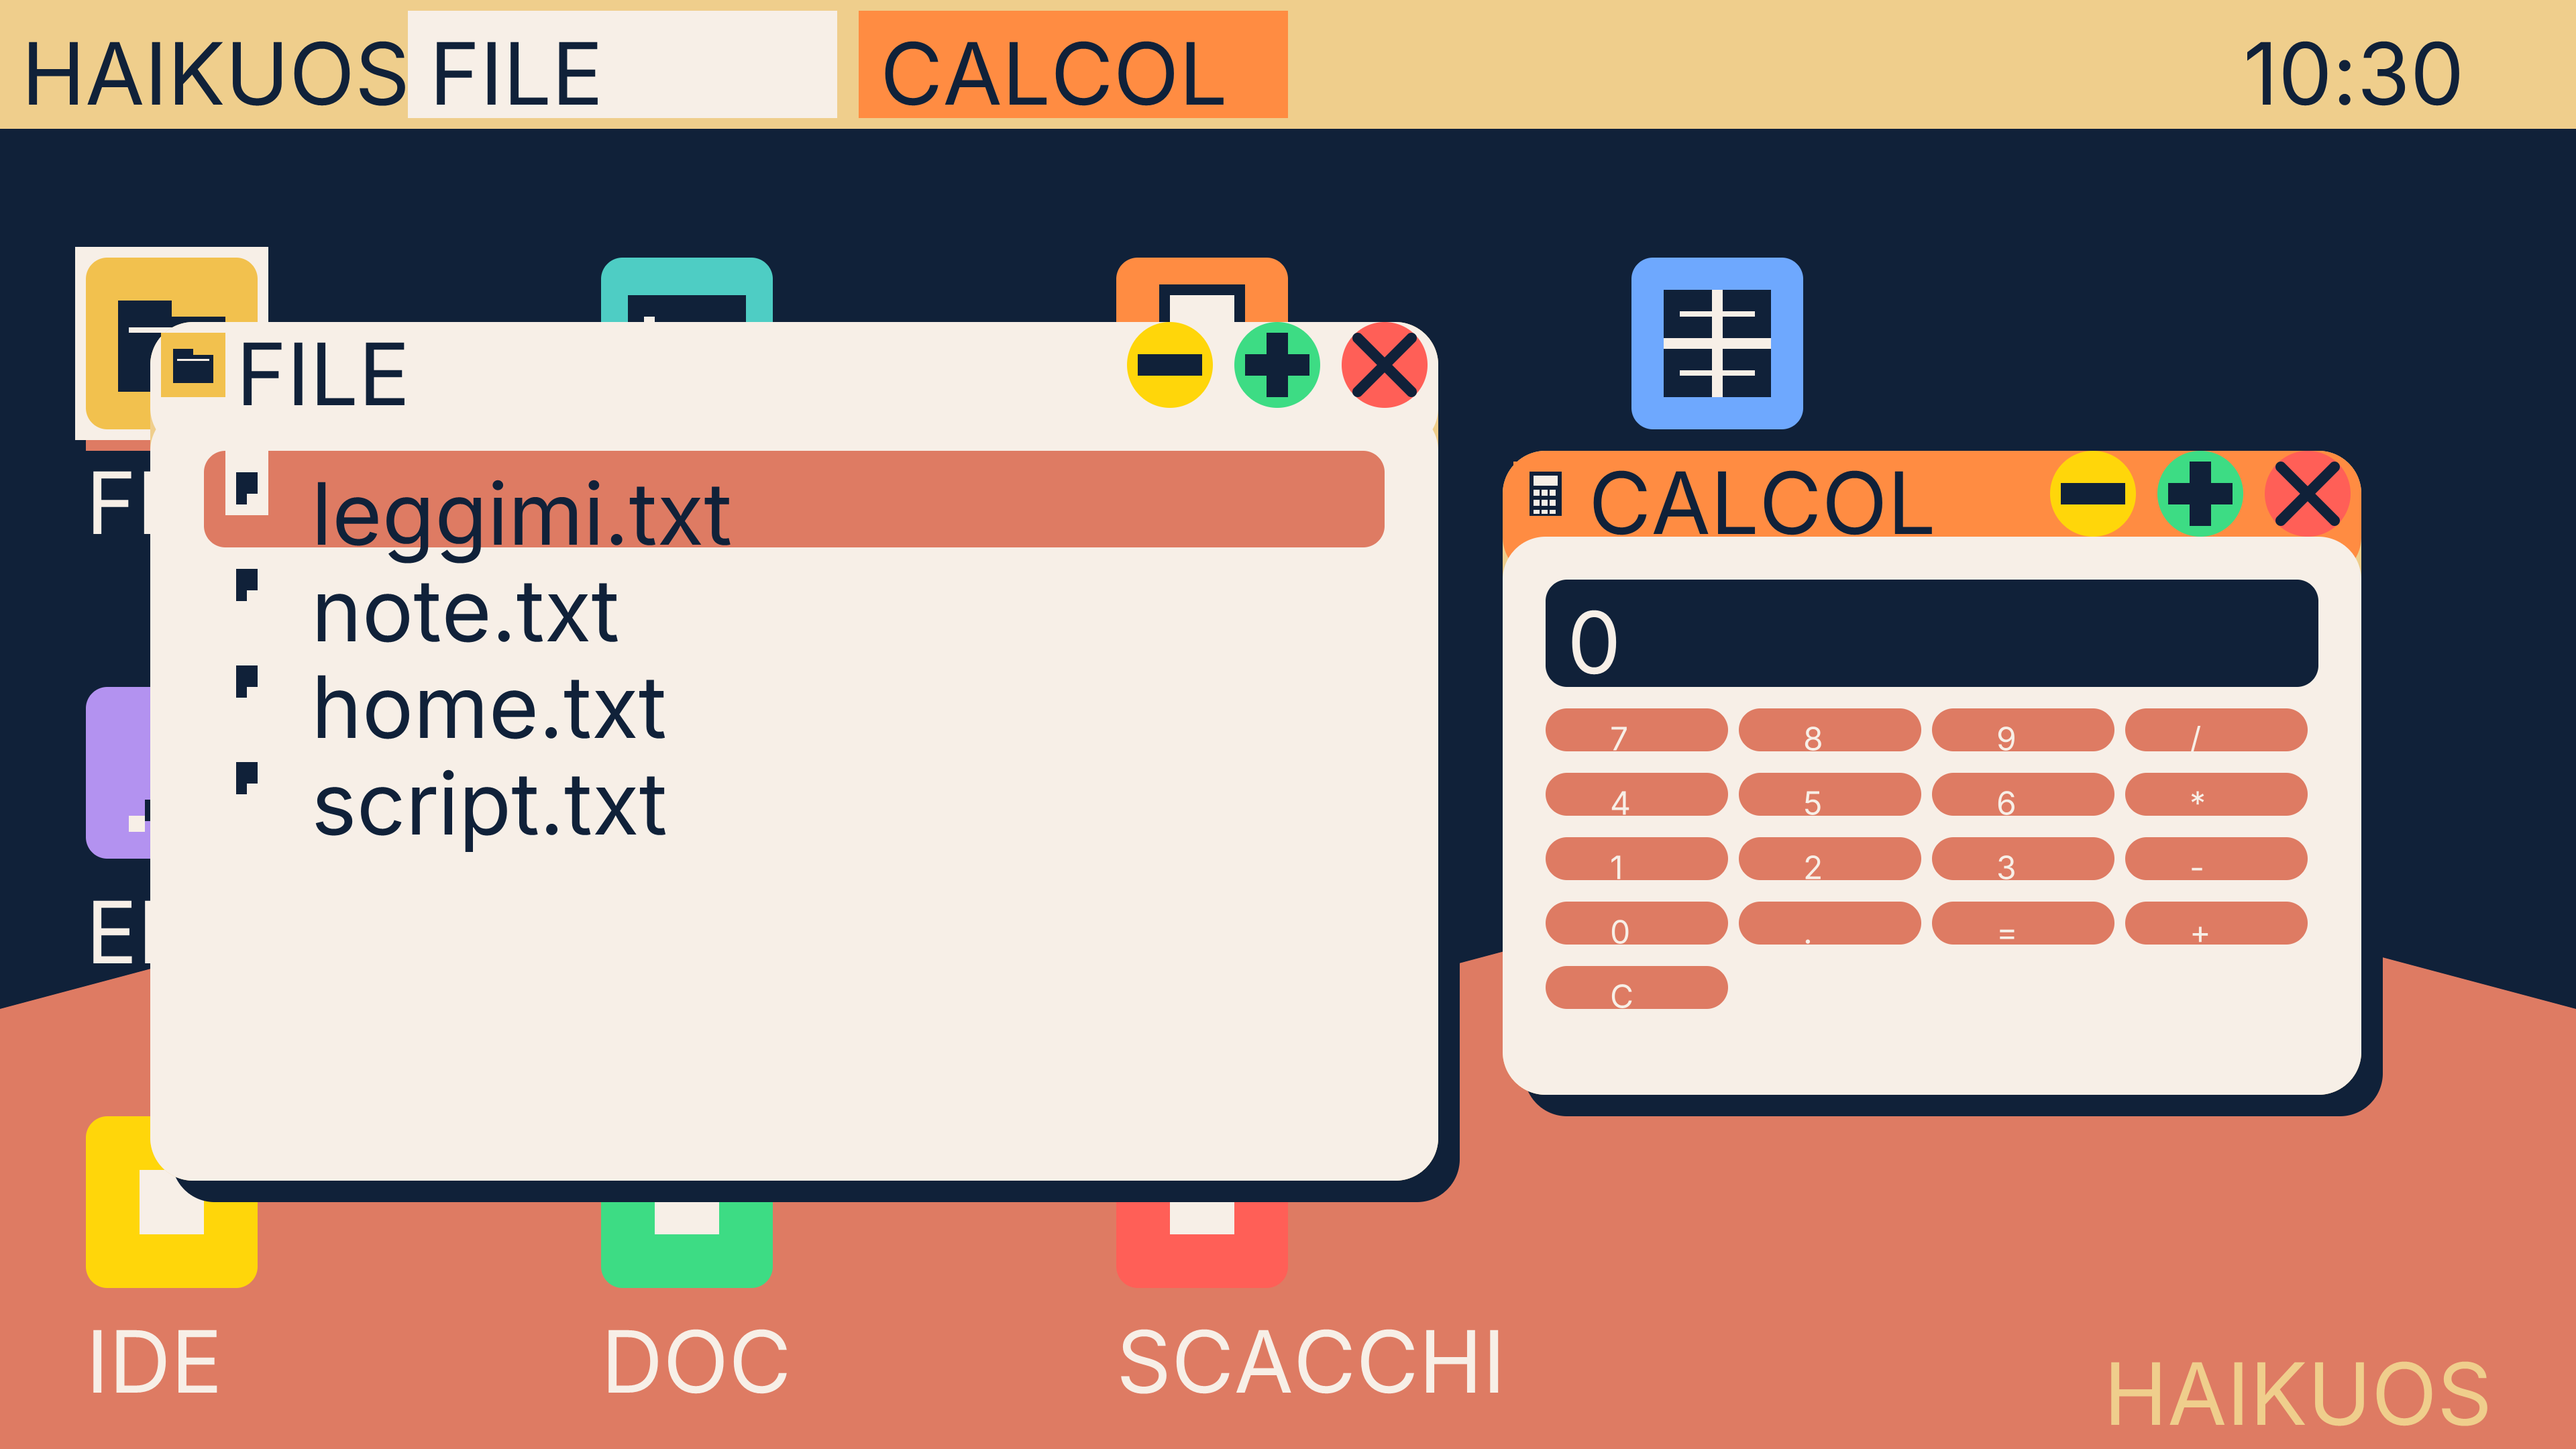
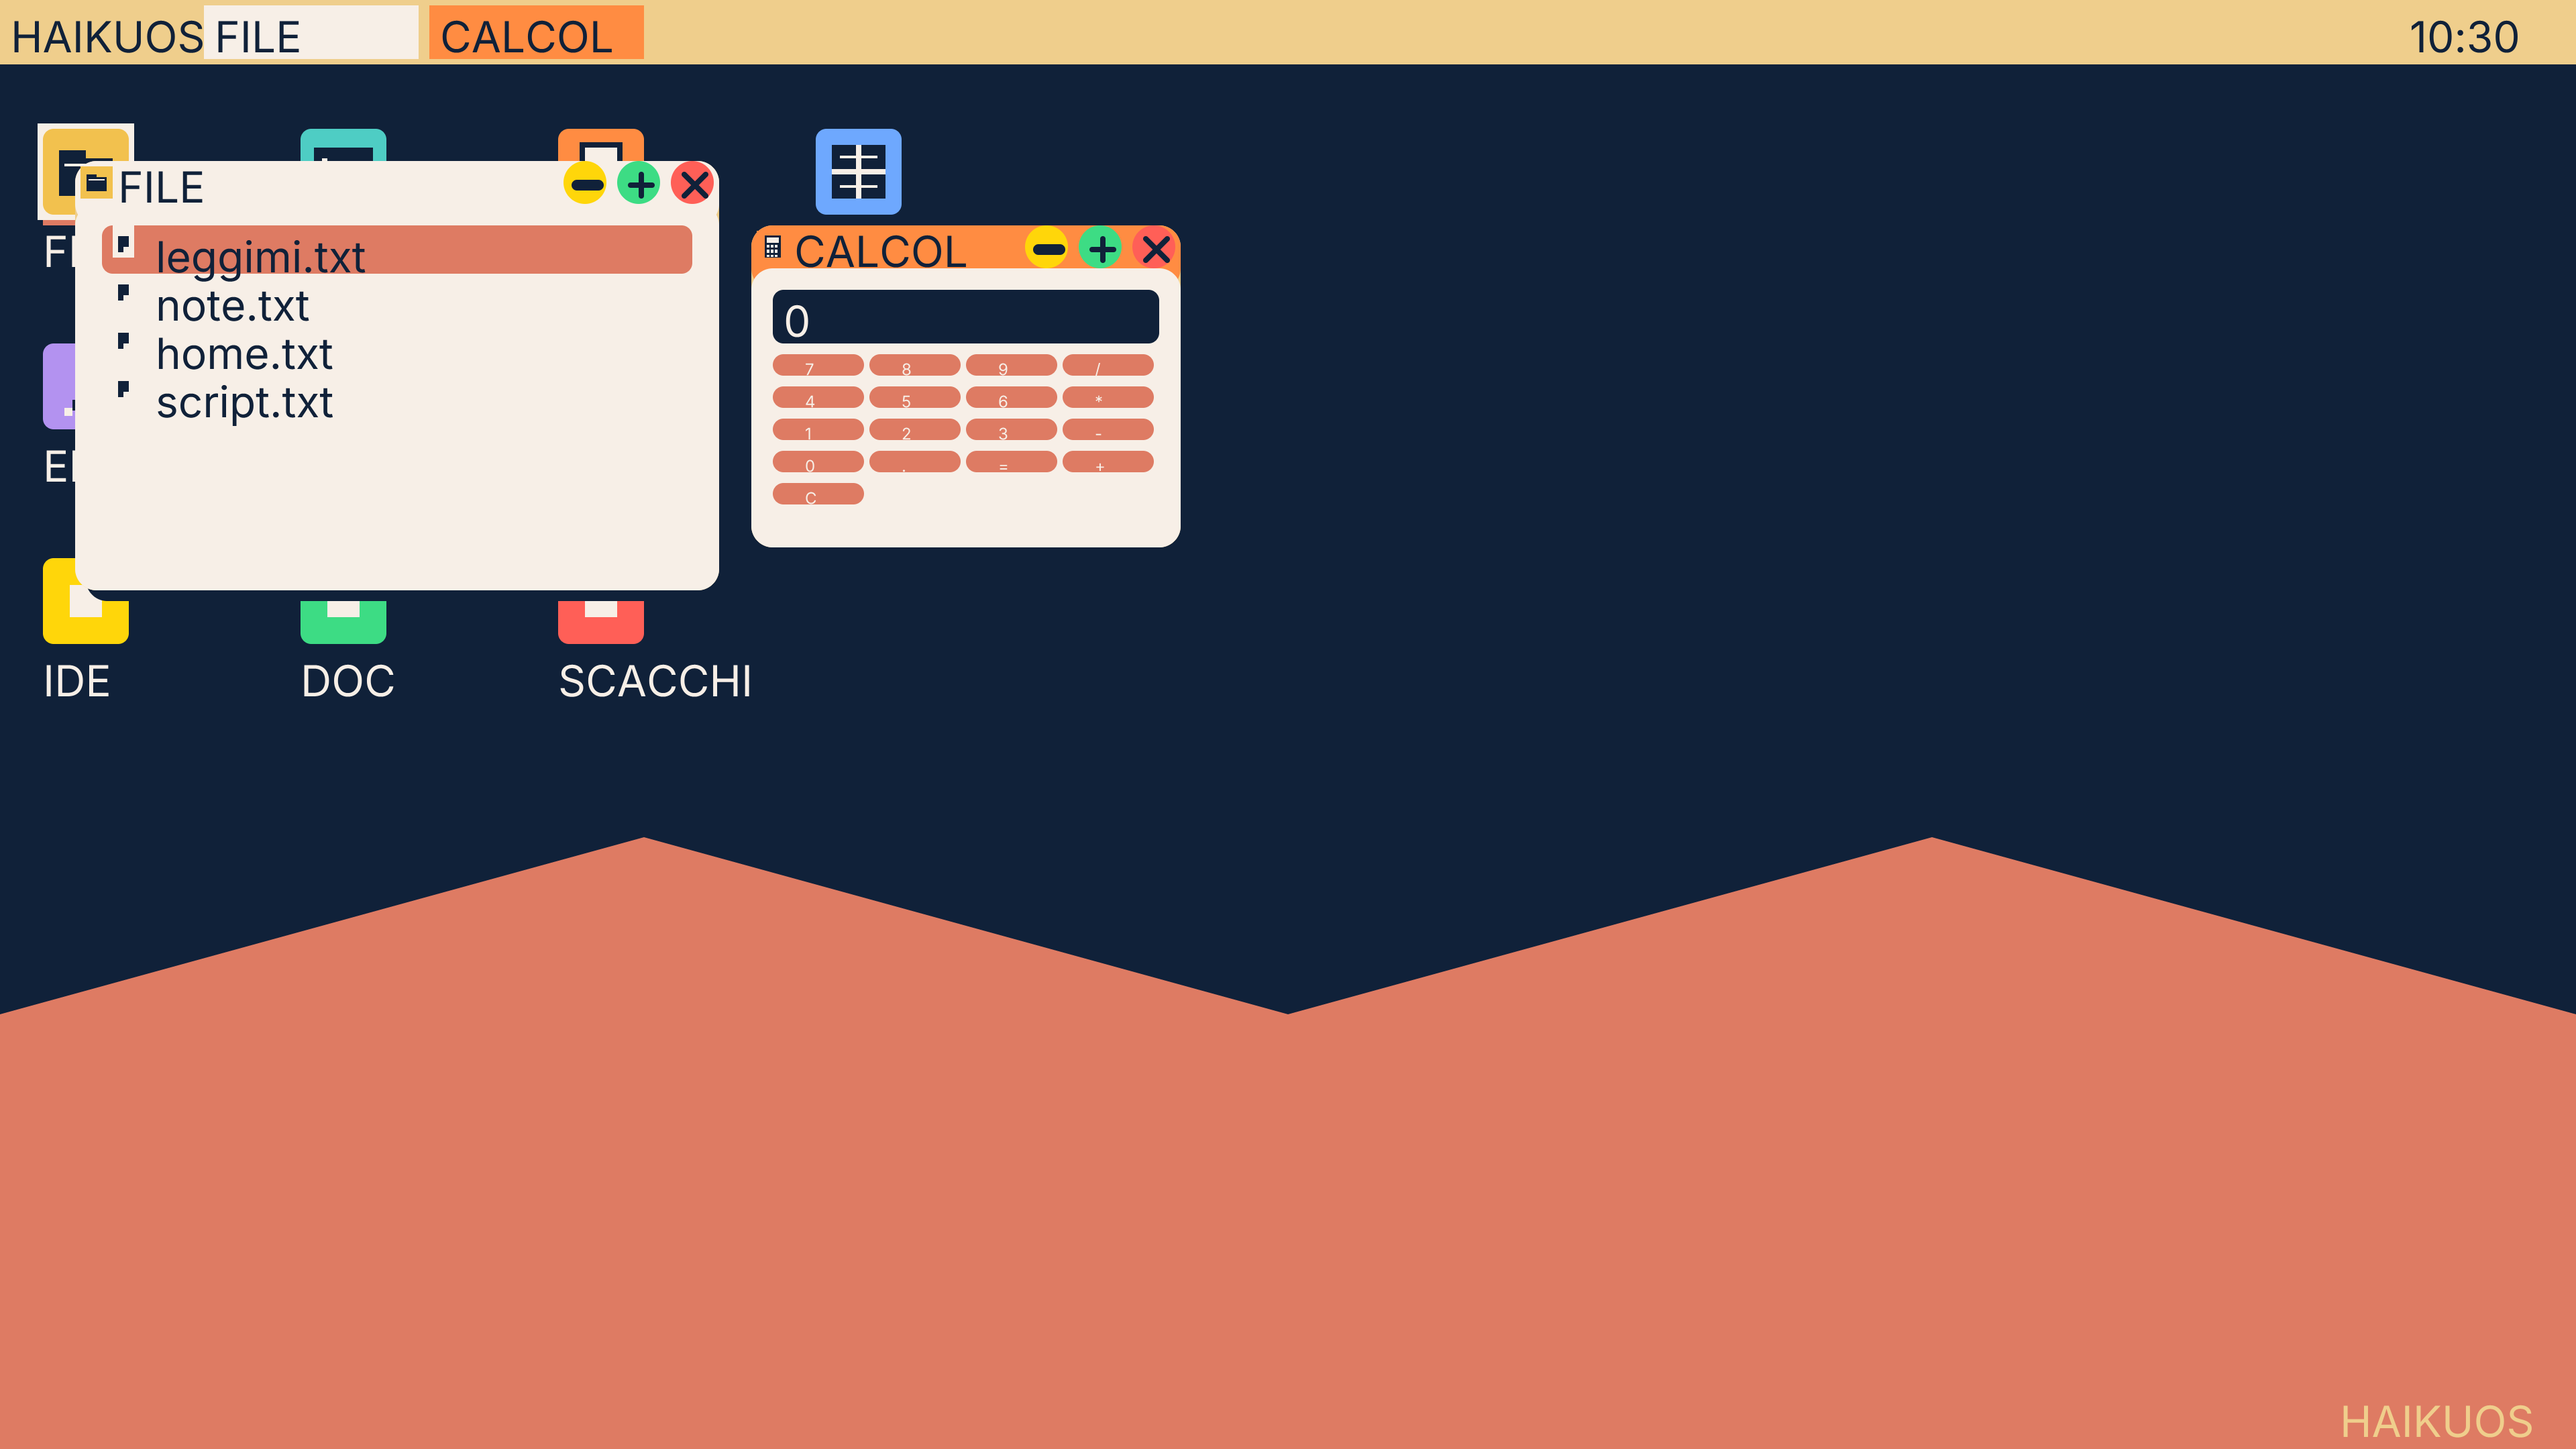
Scale logical grid by diagonal: 4K shows more desktop surface at same PPI
Claude-Session: https://claude.ai/code/session_01AVhvvPKV5pQjApbG3xGsCJ

diff --git a/gui/examples/desktop_vector.rs b/gui/examples/desktop_vector.rs
@@ -56,9 +56,9 @@ struct Vector {
 }
 
 impl Vector {
-    fn new(pw: i32, ph: i32) -> Vector {
+    fn new(pw: i32, ph: i32, lw: i32) -> Vector {
         let n = (pw * ph) as usize;
-        Vector { pw, ph, s: pw / LW, buf: vec![0; n], front: vec![0; n], dirty: Dirty::new(), clip: Rect::new(0, 0, pw, ph) }
+        Vector { pw, ph, s: pw / lw, buf: vec![0; n], front: vec![0; n], dirty: Dirty::new(), clip: Rect::new(0, 0, pw, ph) }
     }
 
     /// Copia le zone sporche dal back buffer al front buffer e le svuota.
@@ -250,25 +250,29 @@ fn main() {
     let w: i32 = a.get(1).and_then(|v| v.parse().ok()).unwrap_or(3840);
     let h: i32 = a.get(2).and_then(|v| v.parse().ok()).unwrap_or(2160);
     let out = a.get(3).map(String::as_str).unwrap_or("desktop.ppm");
-    if w % LW != 0 || h < w / LW * LH {
-        eprintln!("risoluzione {w}x{h} non multipla intera di {LW}x{LH}");
+    // Scala per diagonale: 480×272 (PSP, 4,3") usa 2 px per punto logico; 1080p (7") e 4K (14") usano 8 px,
+    // stessa densità (~315 PPI). Il 4K ha più punti logici: più superficie, stessi elementi fisici.
+    let s = if w >= 1920 { 8 } else { 2 };
+    let (lw, lh) = (w / s, h / s);
+    if w % s != 0 || h % s != 0 || lh < 135 {
+        eprintln!("risoluzione {w}x{h} non compatibile con scala {s}");
         std::process::exit(1);
     }
 
-    let mut shell = Shell::new(&ICONS, LW, LH);
+    let mut shell = Shell::new(&ICONS, lw, lh);
     shell.set_clock(10, 30);
     // Quinto argomento (opzionale): indice dell'icona da aprire, per gli screenshot delle app.
     if let Some(i) = a.get(5).and_then(|p| p.parse::<usize>().ok()) {
         shell.sel = i;
         let _ = shell.key(Key::A);
     }
-    let mut v = Vector::new(w, h);
+    let mut v = Vector::new(w, h, lw);
     // "wins2": scrivania con due finestre aperte, FILE (1) e CALC (3); lo spazio sotto la scala intera resta nero.
     if a.get(4).map(String::as_str) == Some("wins2") {
-        shell.wm.open(1, "FILE", 120, 80, LW, LH);
-        shell.wm.open(3, "CALCOLATRICE", 80, 60, LW, LH);
-        if let Some(i) = shell.wm.find_app(1) { shell.wm.move_win(i, 14, 30, LW, LH); }
-        if let Some(i) = shell.wm.find_app(3) { shell.wm.move_win(i, 140, 42, LW, LH); }
+        shell.wm.open(1, "FILE", 120, 80, lw, lh);
+        shell.wm.open(3, "CALCOLATRICE", 80, 60, lw, lh);
+        if let Some(i) = shell.wm.find_app(1) { shell.wm.move_win(i, 14, 30, lw, lh); }
+        if let Some(i) = shell.wm.find_app(3) { shell.wm.move_win(i, 140, 42, lw, lh); }
         draw(&mut v, &shell);
         let mut f = std::io::BufWriter::new(std::fs::File::create(out).expect("file"));
         write!(f, "P6\n{w} {h}\n255\n").unwrap();
@@ -281,7 +285,7 @@ fn main() {
     // "app=N": una sola finestra a schermo intero con l'app N (es. app=3 calcolatrice).
     if let Some(n) = a.get(4).and_then(|p| p.strip_prefix("app=")).and_then(|p| p.parse::<u8>().ok()) {
         let title = ICONS.iter().find(|i| i.app == n).map(|i| i.title).unwrap_or("");
-        shell.wm.open(n, title, LW - 2, LH - 2, LW, LH);
+        shell.wm.open(n, title, lw - 2, lh - 2, lw, lh);
         draw(&mut v, &shell);
         let mut f = std::io::BufWriter::new(std::fs::File::create(out).expect("file"));
         write!(f, "P6\n{w} {h}\n255\n").unwrap();
@@ -303,7 +307,7 @@ fn main() {
     if let Some(ms) = ms {
         match mode {
             "close" => {
-                shell.wm.open(3, "CALCOLATRICE", 80, 60, LW, LH);
+                shell.wm.open(3, "CALCOLATRICE", 80, 60, lw, lh);
                 let mut r = Reactive::new(0);
                 r.set(WIN_DY, 0, CLOSE_MS, Ease::InQuad);
                 dy[0] = r.get(ms);
@@ -318,7 +322,7 @@ fn main() {
                 sel = Some(Rect::new(x.get(ms), y.get(ms), to.w, to.h));
             }
             "open" => {
-                shell.wm.open(3, "CALCOLATRICE", 80, 60, LW, LH);
+                shell.wm.open(3, "CALCOLATRICE", 80, 60, lw, lh);
                 let mut r = Reactive::new(WIN_DY);
                 r.set(0, 0, OPEN_MS, Ease::OutCubic);
                 dy[0] = r.get(ms);

diff --git a/design/screens/README.md b/design/screens/README.md
@@ -1,12 +1,12 @@
 
 # Render schermi: diagonale fisica
 
-Griglia logica fissa 240×135 (scala intera): stessa interfaccia su tutti gli schermi.
+Stessa densità (~315 PPI) per 7" e 14": elementi identici in dimensione fisica, più superficie sul monitor più grande.
 
-| Schermo | Risoluzione | Diagonale | PPI (diagonale px / pollici) | Scala |
-|---|---|---|---|---|
-| PSP | 480×272 | 4,3" | ≈128 | 2 |
-| Monitor | 1920×1080 | 7" | ≈315 | 8 |
-| Monitor | 3840×2160 | 14" | ≈315 | 16 |
+| Schermo | Risoluzione | Diagonale | PPI | Scala (px per punto logico) | Griglia logica |
+|---|---|---|---|---|---|
+| PSP | 480×272 | 4,3" | ≈128 | 2 | 240×135 |
+| Monitor | 1920×1080 | 7" | ≈315 | 8 | 240×135 |
+| Monitor | 3840×2160 | 14" | ≈315 | 8 | 480×270 |
 
-Il 1080p e il 4K hanno la stessa densità: a 7" e 14" l'interfaccia ha la stessa dimensione fisica. Il PSP è più rado (≈128 PPI) e le icone sono più grandi in proporzione.
+Il 4K ha il doppio dei punti logici in ogni direzione: quattro volte la superficie del 1080p, con icone e finestre della stessa dimensione fisica.
